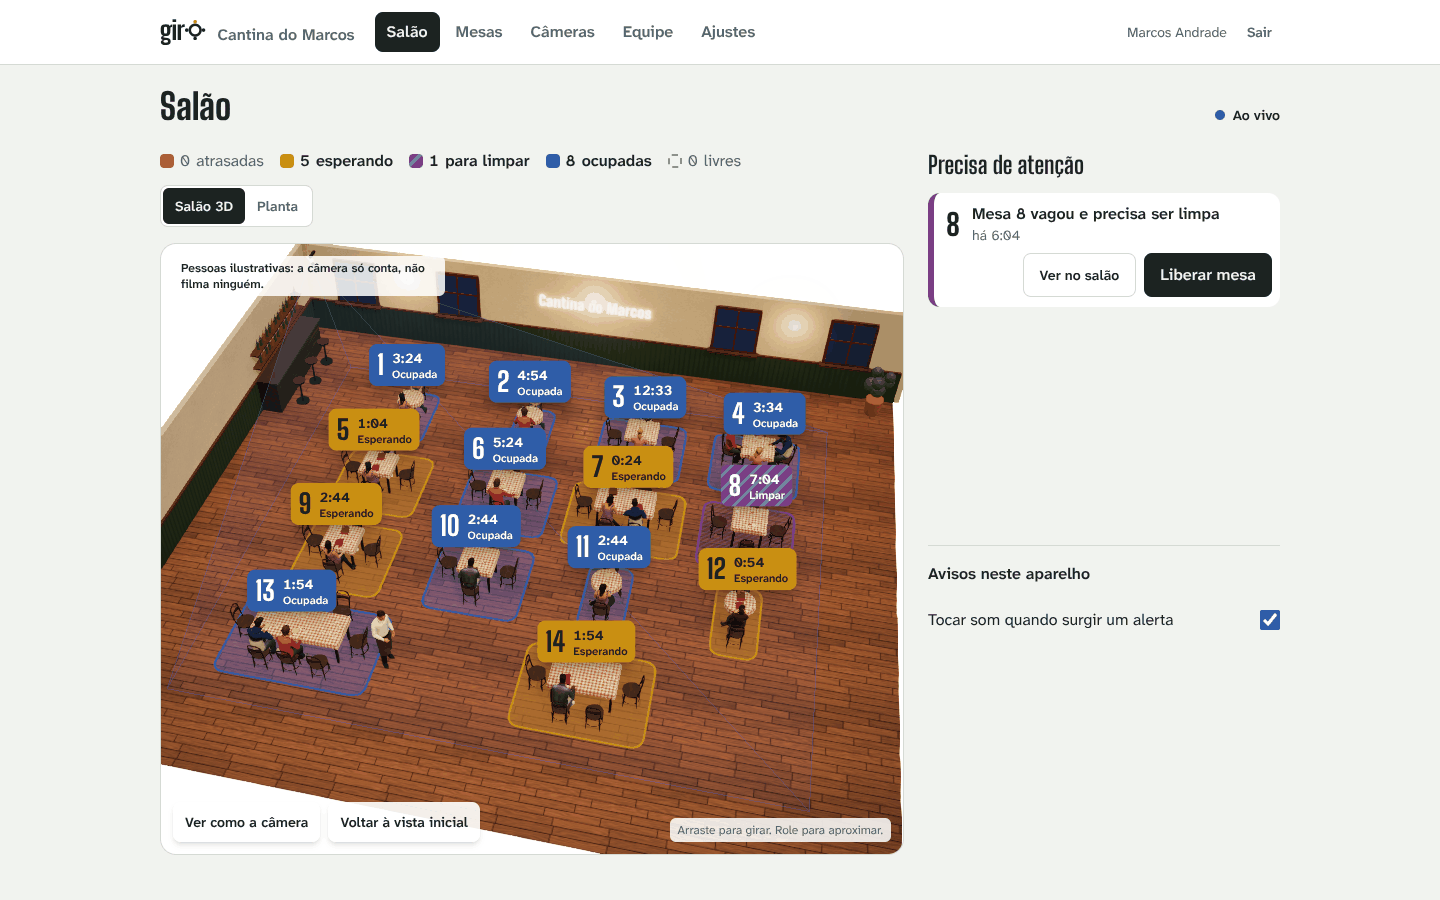
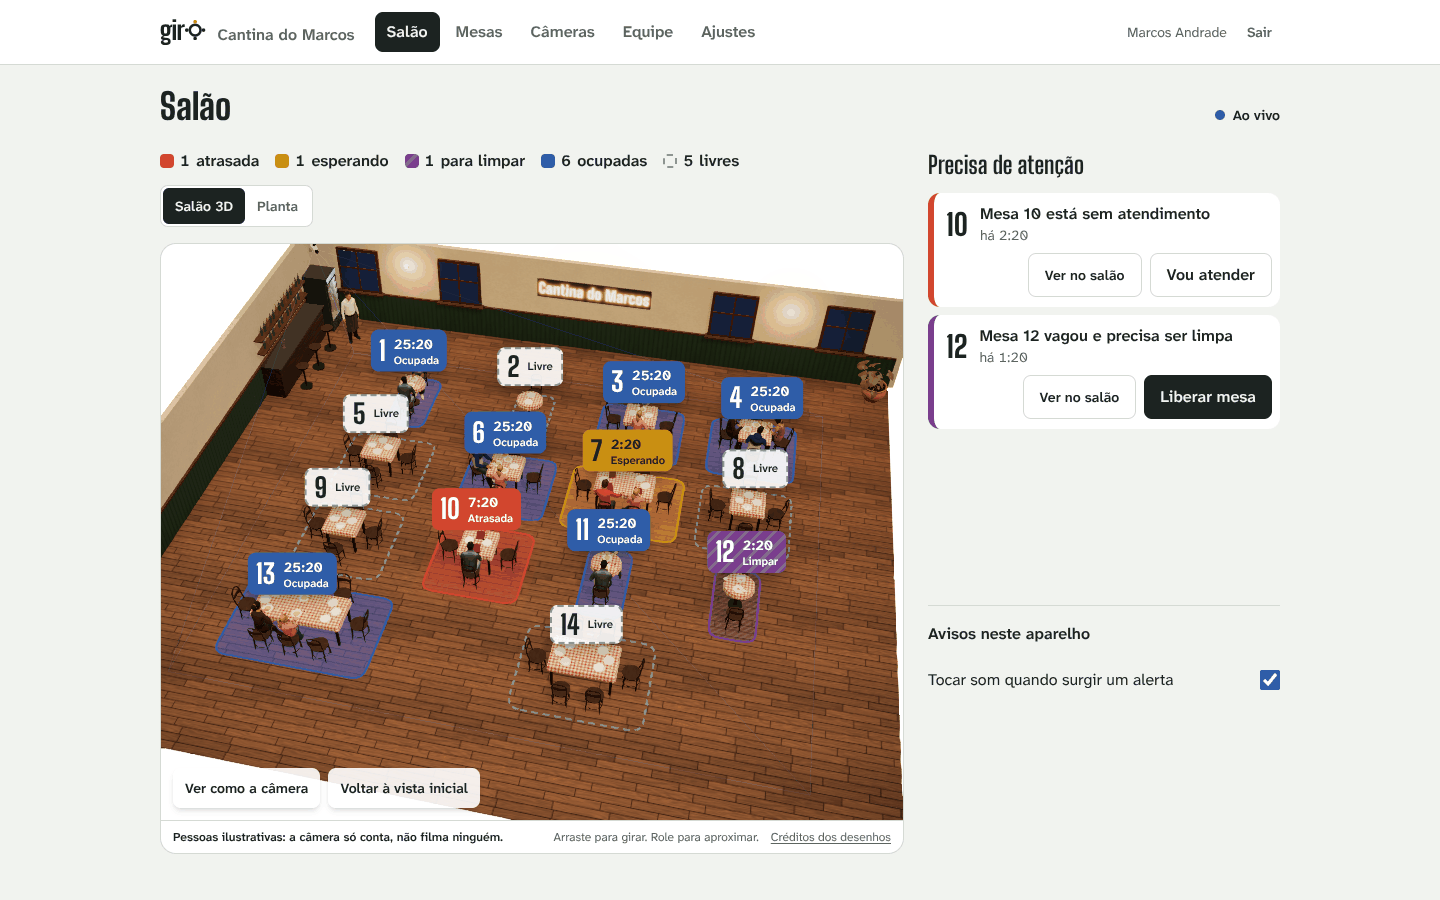
Prints novos do salão 3D: decoração, mesa para limpar e "Ver no salão"
Claude-Session: https://claude.ai/code/session_01LfHbavaZP2AQ9wcJasDfxp

diff --git a/README.md b/README.md
@@ -39,6 +39,8 @@ Visão computacional (Fase 2):
 
 ![Tela Câmeras: desenho das mesas sobre a foto](docs/telas/cameras-desenhando.png)
 
+![Alerta da mesa 10 com "Ver no salão": a câmera do 3D vai até a mesa que espera atendimento](docs/telas/salao-3d-perto.png)
+
 ![Salão em 3D no modo "Ver como a câmera"](docs/telas/salao-3d-camera.png)
 
 *Ilustração de salão vazio usada como foto da câmera. Com gente, cada pessoa aparece pixelada e com uma caixa branca (sentada) ou amarela (em pé).*
